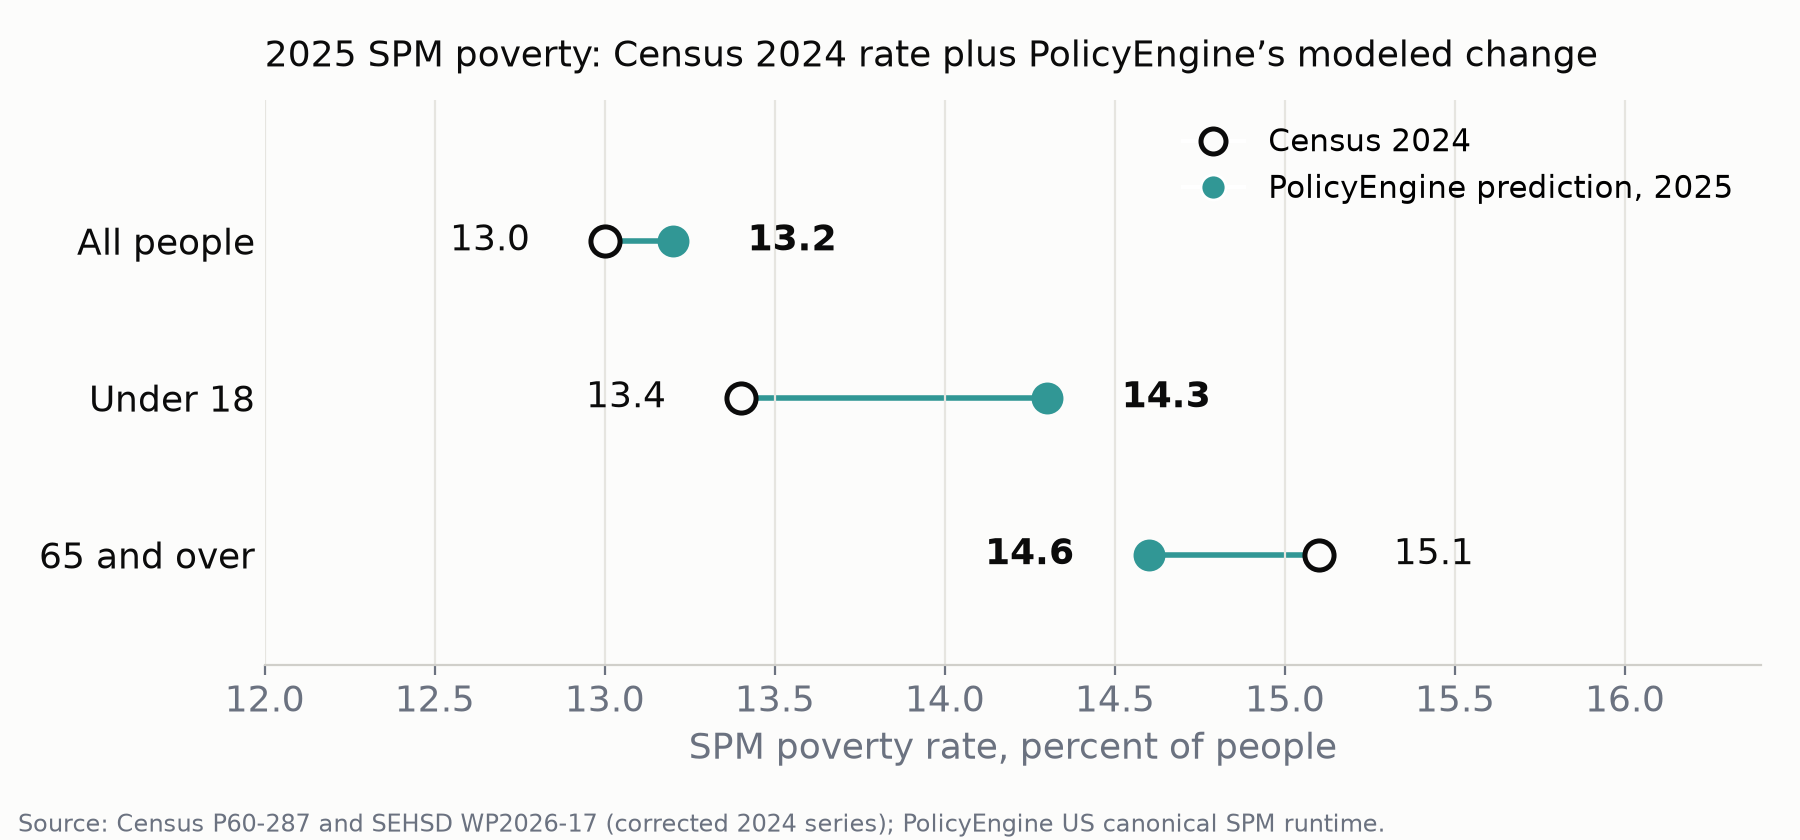
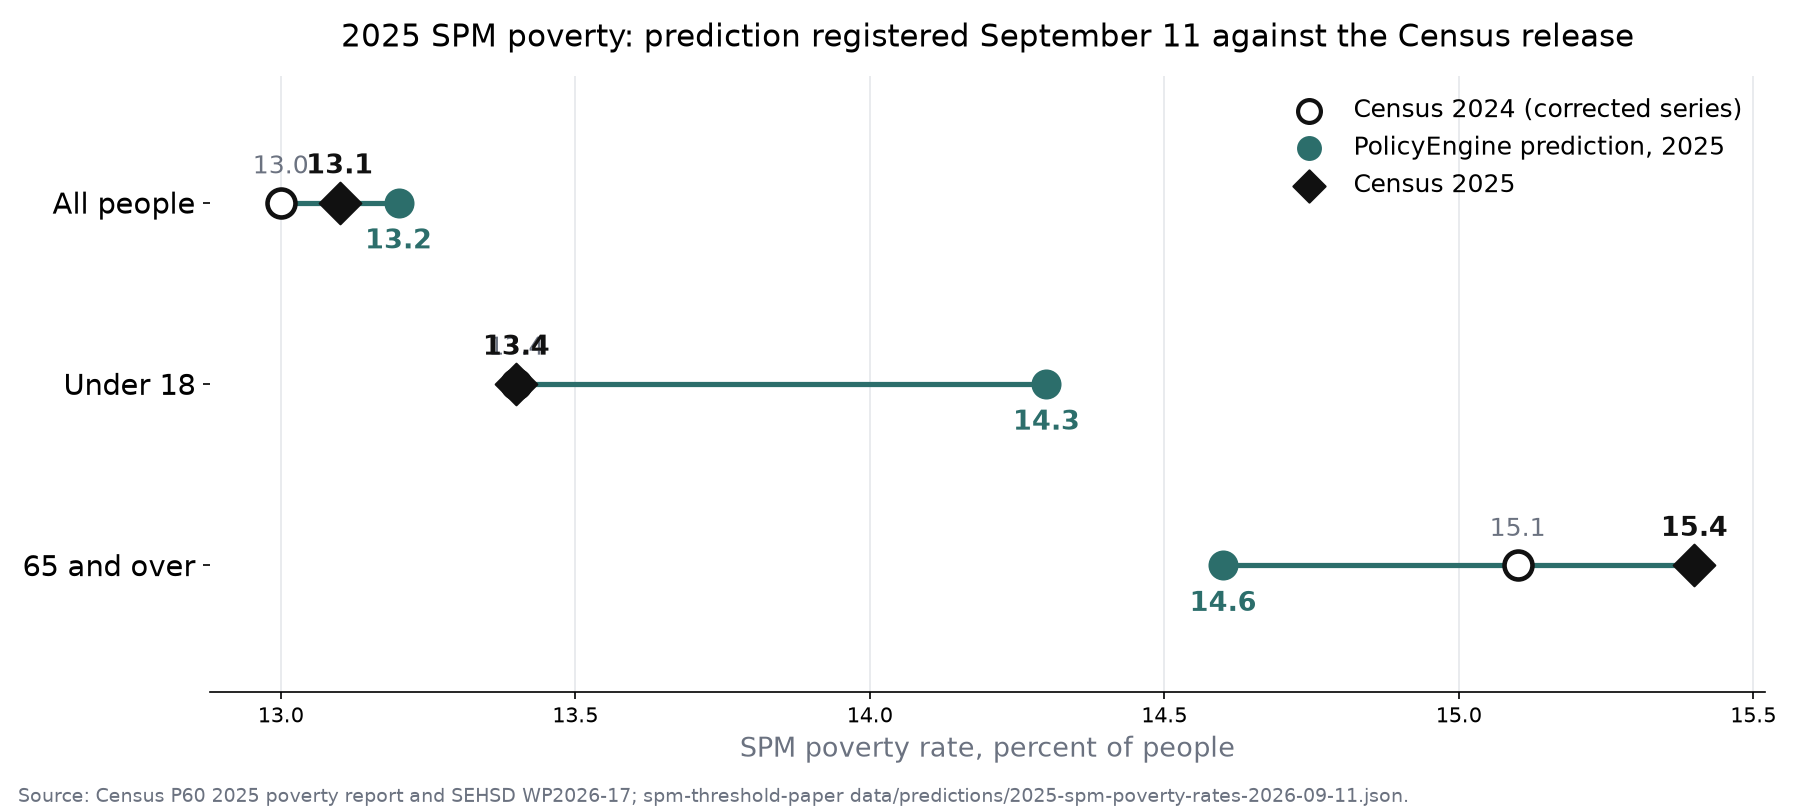
Grade the 2025 SPM prediction against the Census release
Census (P60-290, 10 am ET September 15): SPM 13.1% all people (+0.1 pp), 13.4%
children (-0.1), 15.4% age 65 and over (+0.2); renters 24.0% (+0.8), owners with
mortgage 6.0% (-0.2), owners without 11.9% (unchanged). Registered prediction
+0.2 / +0.9 / -0.5 misses by +0.1 / +1.0 / -0.7; prior model -0.5 / -0.2 / -1.2
misses by -0.6 / -0.1 / -1.4. The opener states the result, a results section
carries the table, the chart adds the Census 2025 markers, and the title and
description say the prediction is graded.

diff --git a/app/src/data/posts/articles/2025-spm-poverty-prediction.md b/app/src/data/posts/articles/2025-spm-poverty-prediction.md
@@ -1,4 +1,4 @@
-At 10 am ET on September 15, the Census Bureau publishes poverty rates for 2025. Our prediction for the Supplemental Poverty Measure is 13.2 percent of people, up from 13.0 percent in 2024. For children we predict 14.3 percent, up from 13.4; for people 65 and over, 14.6 percent, down from 15.1.
+At 10 am ET on September 15, the Census Bureau published poverty rates for 2025. Our prediction, registered September 11, was that Supplemental Poverty Measure poverty would rise 0.2 points to 13.2 percent of people, rise 0.9 points to 14.3 percent for children, and fall 0.5 points to 14.6 percent for people 65 and over. Census reported 13.1 percent (up 0.1), 13.4 percent for children (down 0.1), and 15.4 percent for people 65 and over (up 0.2). The child prediction missed by a point. The results section at the end grades both this prediction and the prior model's.
 
 We wrote the numbers down before the release. The prediction file, its hash, and an OpenTimestamps proof are in the [spm-threshold-paper repository](https://github.com/PolicyEngine/spm-threshold-paper/blob/master/data/predictions/2025-spm-poverty-rates-2026-09-11.json). If it misses, it stays there.
 
@@ -37,6 +37,14 @@ The full description, with every variable named and linked, is in the [PolicyEng
 - **Levels.** The model's own 2025 level is 13.2 percent for all people, 16.6 for children and 10.9 for seniors. The child and senior levels sit far from Census, in opposite directions, which is why we report changes. Those gaps are open questions for us, not corrections to Census.
 - **Local thresholds for 2025** are projections until Census publishes the geography.
 
-## What the release tells us
+## What Census published
 
-Census publishes the 2025 rate and the 2024 rate on the corrected thresholds. We will grade the prediction against the published change for each group, add the result to the [paper repository](https://github.com/PolicyEngine/spm-threshold-paper), and write up what the misses point to.
+*Poverty in the United States: 2025* (P60-290) reports SPM poverty of 13.1 percent for all people, up 0.1 point from 2024; 13.4 percent for children, down 0.1; and 15.4 percent for people 65 and over, up 0.2. By housing tenure, the renter rate rose 0.8 points to 24.0 percent, the rate for owners with a mortgage fell 0.2 to 6.0, and the rate for owners without a mortgage was unchanged at 11.9.
+
+| Group | Census change, pp | Registered prediction | Miss | Prior model | Miss |
+| --- | ---: | ---: | ---: | ---: | ---: |
+| All people | +0.1 | +0.2 | +0.1 | −0.5 | −0.6 |
+| Under 18 | −0.1 | +0.9 | +1.0 | −0.2 | −0.1 |
+| 65 and over | +0.2 | −0.5 | −0.7 | −1.2 | −1.4 |
+
+The registered prediction was closer than the prior model for all people and for people 65 and over. The prior model was closer for children, where the registered change missed by a full point. The renter rate rose in line with the threshold growth for renters; the child rate did not, so the miss sits in the resources of families with children, not in the thresholds. The grade goes into the [paper repository](https://github.com/PolicyEngine/spm-threshold-paper) as a dated record, and the child miss is the next thing to take apart.
